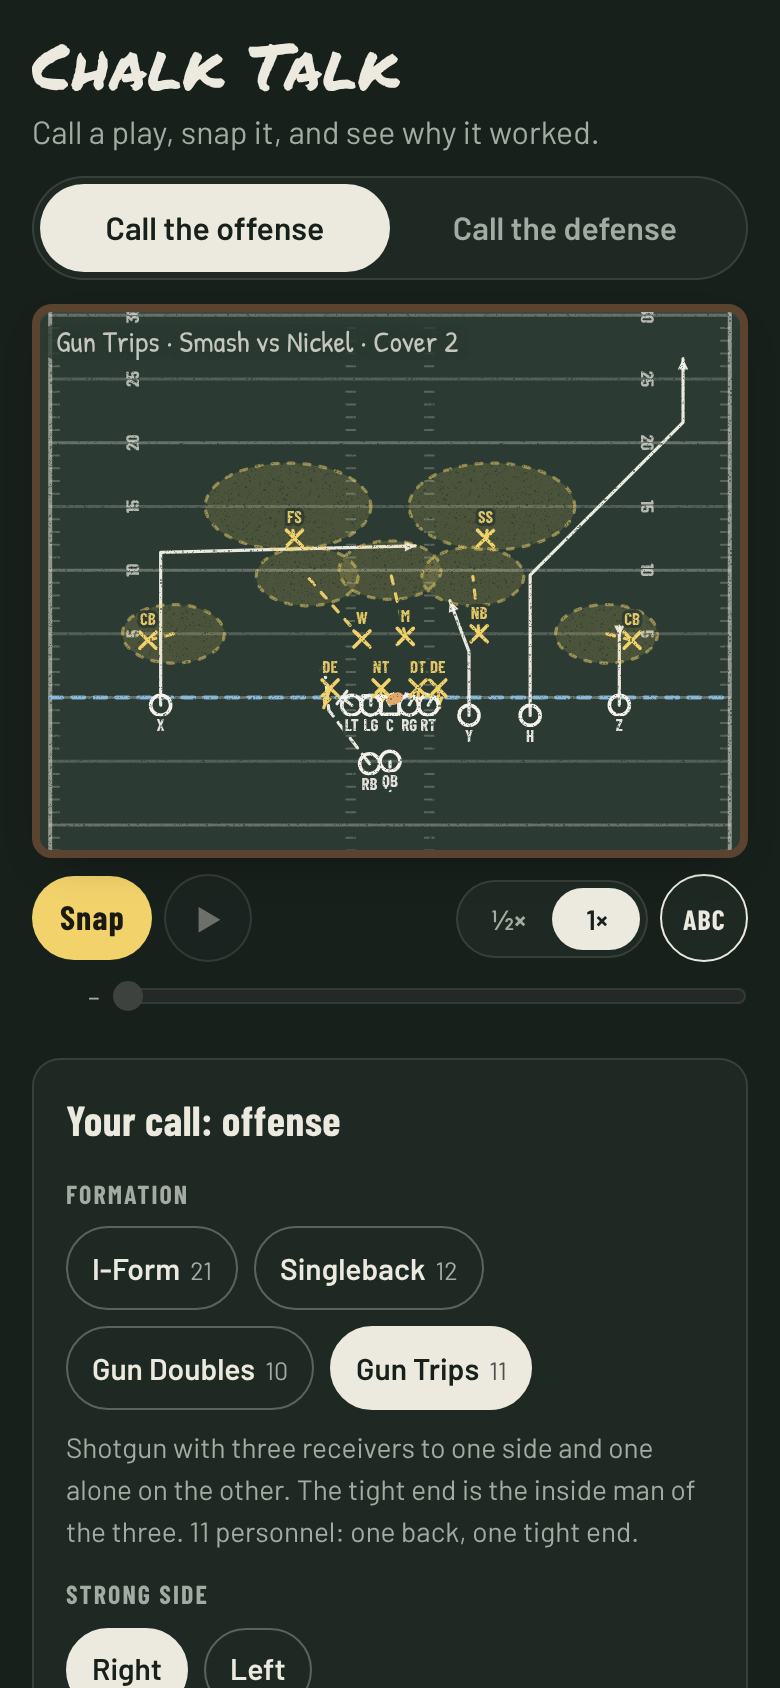
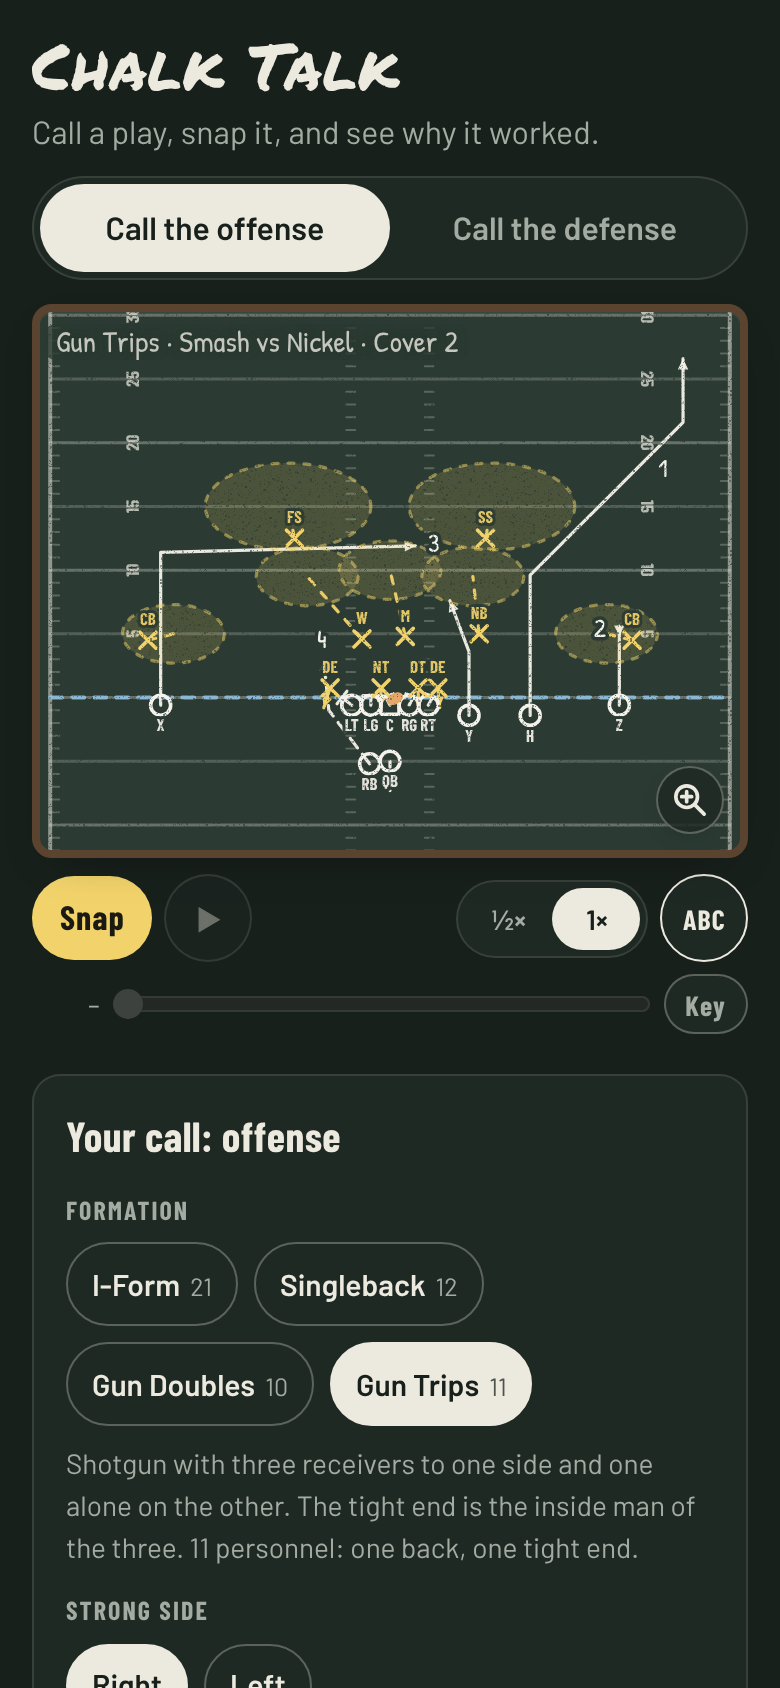
Pictures: redrawn with the read numbers, the Key and the magnifier
The README's phone pictures showed the board before this round's
changes. Redrawn from the same play: before the snap the routes carry
the quarterback's read numbers, the magnifier sits in the board's
corner, Key is at the end of the scrubber's row with the scrubber's
marks at the throw and the catch, and the play-by-play's times are
buttons. The link preview, mid-play on a computer, comes out the same.

Claude-Session: https://claude.ai/code/session_01PQbLNSsq21BnpoxvUaVtX1

diff --git a/README.md b/README.md
@@ -5,7 +5,7 @@
 **A football coach's board you can run.** Call the offense or the defense, snap it, and watch every route, block, rush and coverage play out in Xs and Os. Afterwards it tells you what happened and why: who came free, how the call does against theirs, and how many blockers there were for the defenders in the box. Tap any player to learn his position and his job on that play.
 
 <p align="center">
-  <img src="docs/phone-call.png" alt="The board before the snap: Gun Trips against a nickel defense, with the routes for Smash drawn in white chalk and the defense's alignment in yellow Xs" width="250">
+  <img src="docs/phone-call.png" alt="The board before the snap: Gun Trips against a nickel defense, with the routes for Smash drawn in white chalk and numbered in the order the quarterback reads them, and the defense's alignment in yellow Xs" width="250">
   &nbsp;
   <img src="docs/phone-play.png" alt="The same play two seconds after the snap: chalk trails show where everyone went, the zone drops are shaded, a dotted line follows the throw, and a caption reads 'The quarterback throws to the H on a corner route, his first read.', with the H ringed" width="250">
   &nbsp;
